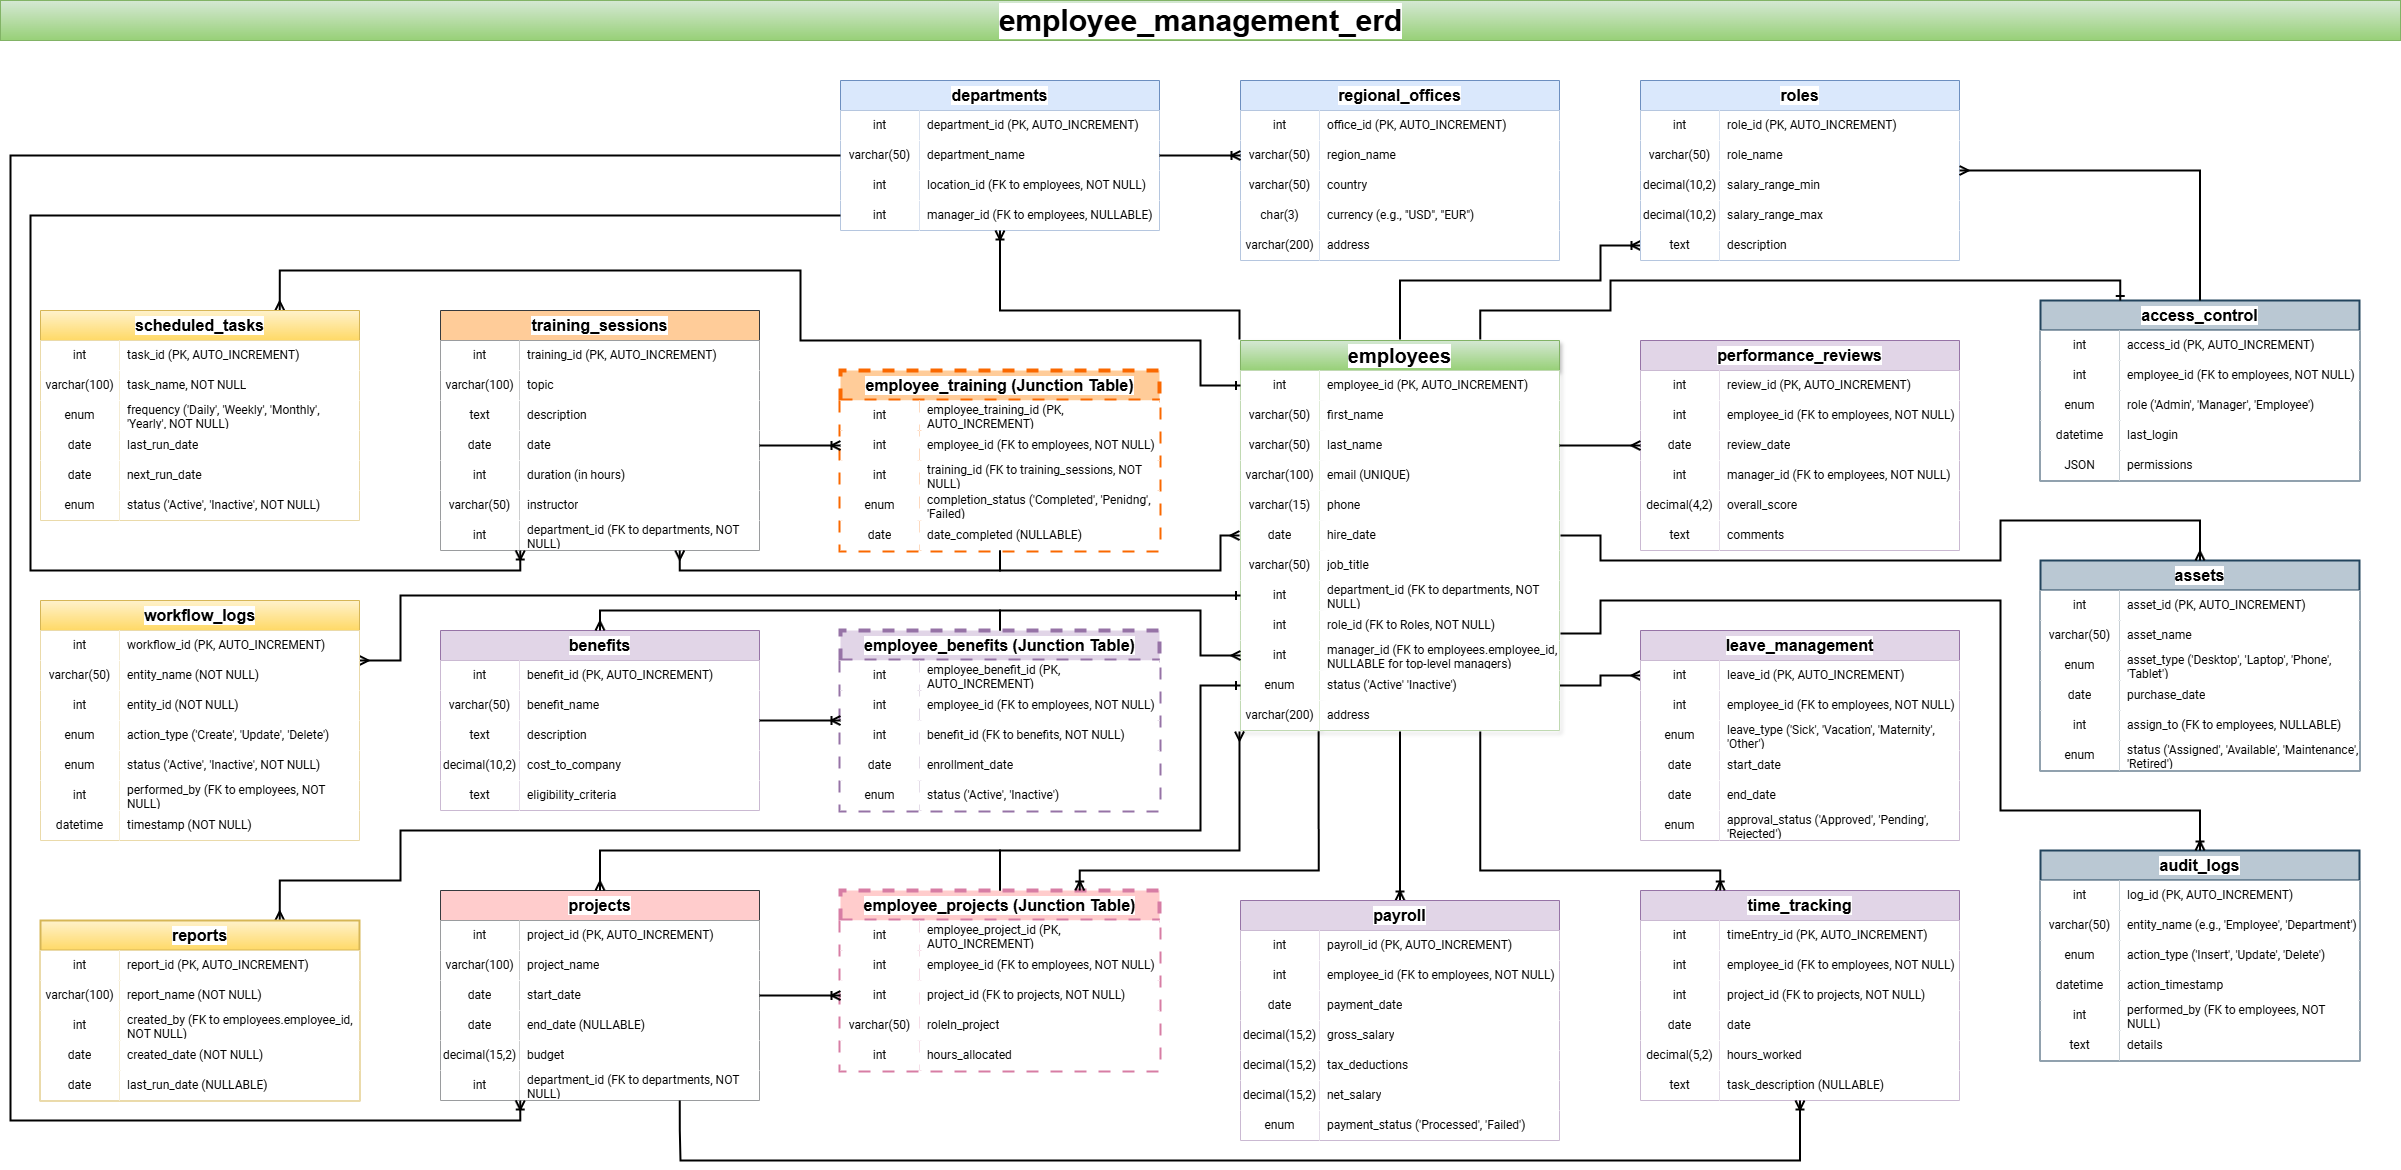
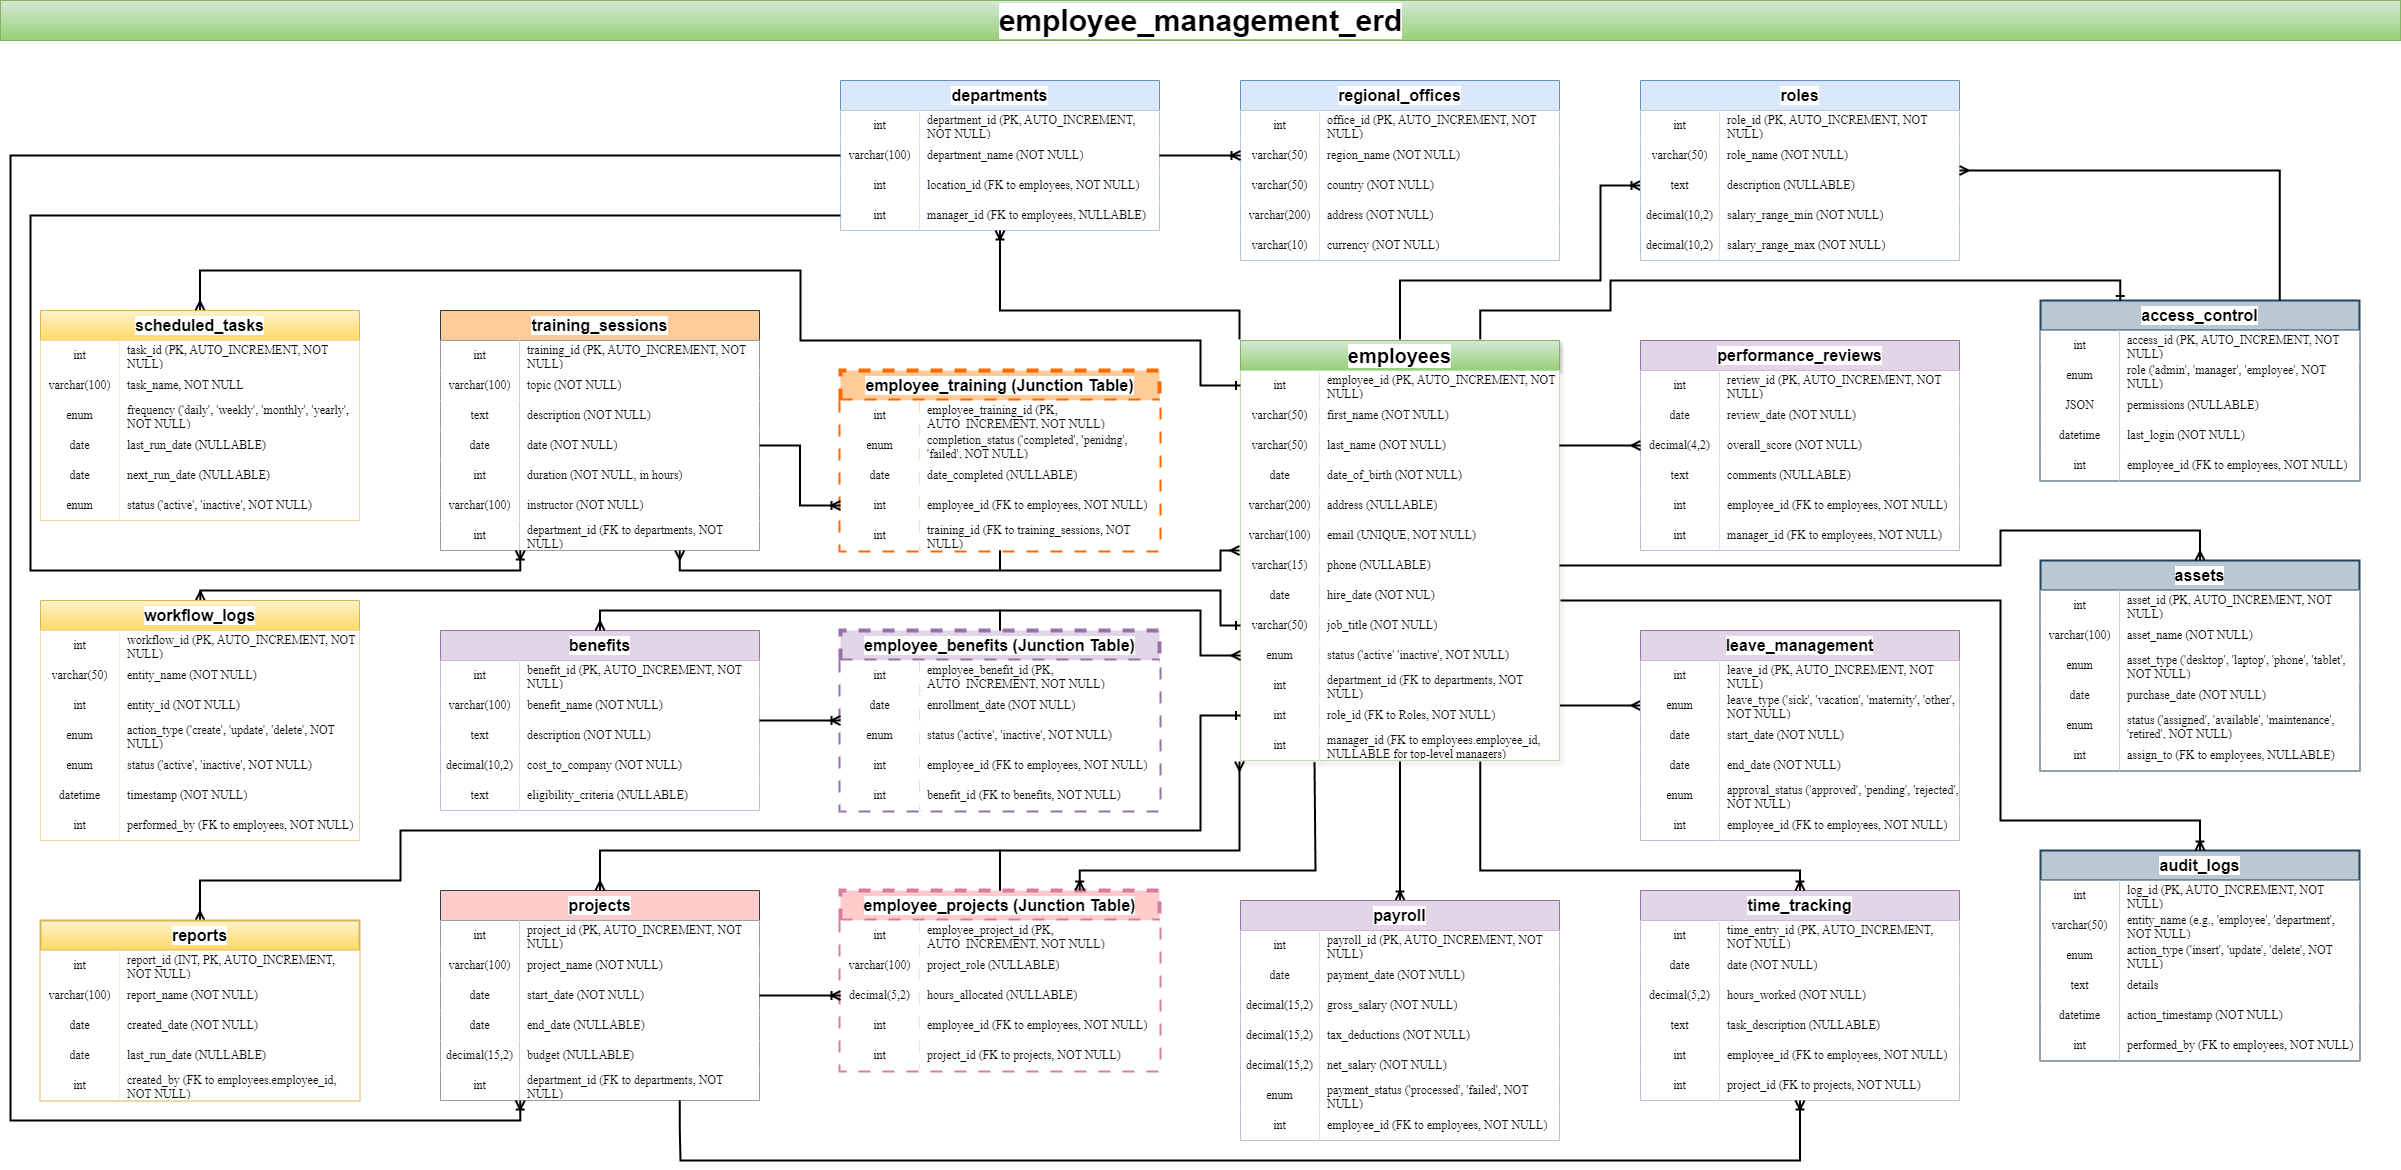
updated documentation and erd

diff --git a/assets/erd/ERD_README.md b/assets/erd/ERD_README.md
@@ -26,55 +26,56 @@ The ERD visualizes the relational structure of the database. Below is a descript
 ## **Entity Descriptions and Attributes**
 
 ### **employees**
-- **Primary Key**: `employee_id` (AUTO_INCREMENT, NOT NULL)
+- **Primary Key**: `employee_id` (INT, AUTO_INCREMENT, NOT NULL)
 - **Attributes**:
   - `first_name` (VARCHAR(50), NOT NULL)
   - `last_name` (VARCHAR(50), NOT NULL)
+  - `date_of_birth` (DATE, NOT NULL)
+  - `address` (VARCHAR(200), NULL)
   - `email` (VARCHAR(100), UNIQUE, NOT NULL)
   - `phone` (VARCHAR(15), NULL)
   - `hire_date` (DATE, NOT NULL)
   - `job_title` (VARCHAR(50), NOT NULL)
   - `status` (ENUM: `active`, `inactive`, NOT NULL)
-  - `address` (VARCHAR(255), NULL)
 - **Foreign Keys**:
-  - `department_id` (FK to `departments`, NOT NULL)
-  - `role_id` (FK to `roles`, NOT NULL)
-  - `manager_id` (Self-referencing FK to `employees`, NULL for top-level managers)
+  - `department_id` (INT, FK to `departments`, NOT NULL)
+  - `role_id` (INT, FK to `roles`, NOT NULL)
+  - `manager_id` (INT, Self-referencing FK to `employees`, NULL for top-level managers)
 
 ---
 
 ### **departments**
-- **Primary Key**: `department_id` (AUTO_INCREMENT, NOT NULL)
+- **Primary Key**: `department_id` (INT, AUTO_INCREMENT, NOT NULL)
 - **Attributes**:
   - `department_name` (VARCHAR(100), NOT NULL)
 - **Foreign Keys**:
-  - `location_id` (FK to `regional_offices`, NOT NULL)
-  - `manager_id` (FK to `employees`, NULL)
+  - `location_id` (INT, FK to `regional_offices`, NOT NULL)
+  - `manager_id` (INT, FK to `employees`, NULL)
 
 ---
 
 ### **regional_offices**
-- **Primary Key**: `office_id` (AUTO_INCREMENT, NOT NULL)
+- **Primary Key**: `office_id` (INT, AUTO_INCREMENT, NOT NULL)
 - **Attributes**:
   - `region_name` (VARCHAR(50), NOT NULL)
   - `country` (VARCHAR(50), NOT NULL)
+  - `address` (VARCHAR(200), NOT NULL)
   - `currency` (VARCHAR(10), NOT NULL)
-  - `address` (VARCHAR(255), NOT NULL)
 
 ---
 
 ### **roles**
-- **Primary Key**: `role_id` (AUTO_INCREMENT, NOT NULL)
+- **Primary Key**: `role_id` (INT, AUTO_INCREMENT, NOT NULL)
 - **Attributes**:
   - `role_name` (VARCHAR(50), NOT NULL)
+  - `description` (TEXT, NULL)
   - `salary_range_min` (DECIMAL(10, 2), NOT NULL)
   - `salary_range_max` (DECIMAL(10, 2), NOT NULL)
-  - `description` (TEXT, NULL)
 
 ---
 
 ### **training_sessions**
-- **Primary Key**: `training_id` (AUTO_INCREMENT, NOT NULL)
+- **Primary Key**: `training_id` (INT, AUTO_INCREMENT, NOT NULL)
 - **Attributes**:
   - `topic` (VARCHAR(100), NOT NULL)
   - `description` (TEXT, NULL)
@@ -82,23 +83,23 @@ The ERD visualizes the relational structure of the database. Below is a descript
   - `duration` (INT, NOT NULL, in hours)
   - `instructor` (VARCHAR(100), NULL)
 - **Foreign Key**:
-  - `department_id` (FK to `departments`, NOT NULL)
+  - `department_id` (INT, FK to `departments`, NOT NULL)
 
 ---
 
 ### **employee_training**
-- **Primary Key**: `employee_training_id` (AUTO_INCREMENT, NOT NULL)
+- **Primary Key**: `employee_training_id` (INT, AUTO_INCREMENT, NOT NULL)
 - **Attributes**:
   - `completion_status` (ENUM: `completed`, `pending`, `failed`, NOT NULL)
   - `date_completed` (DATE, NULL)
 - **Foreign Keys**:
-  - `employee_id` (FK to `employees`, NOT NULL)
-  - `training_id` (FK to `training_sessions`, NOT NULL)
+  - `employee_id` (INT, FK to `employees`, NOT NULL)
+  - `training_id` (INT, FK to `training_sessions`, NOT NULL)
 
 ---
 
 ### **benefits**
-- **Primary Key**: `benefit_id` (AUTO_INCREMENT, NOT NULL)
+- **Primary Key**: `benefit_id` (INT, AUTO_INCREMENT, NOT NULL)
 - **Attributes**:
   - `benefit_name` (VARCHAR(100), NOT NULL)
   - `description` (TEXT, NULL)
@@ -108,41 +109,41 @@ The ERD visualizes the relational structure of the database. Below is a descript
 ---
 
 ### **employee_benefits**
-- **Primary Key**: `employee_benefit_id` (AUTO_INCREMENT, NOT NULL)
+- **Primary Key**: `employee_benefit_id` (INT, AUTO_INCREMENT, NOT NULL)
 - **Attributes**:
   - `enrollment_date` (DATE, NOT NULL)
   - `status` (ENUM: `active`, `inactive`, NOT NULL)
 - **Foreign Keys**:
-  - `employee_id` (FK to `employees`, NOT NULL)
-  - `benefit_id` (FK to `benefits`, NOT NULL)
+  - `employee_id` (INT, FK to `employees`, NOT NULL)
+  - `benefit_id` (INT, FK to `benefits`, NOT NULL)
 
 ---
 
 ### **projects**
-- **Primary Key**: `project_id` (AUTO_INCREMENT, NOT NULL)
+- **Primary Key**: `project_id` (INT, AUTO_INCREMENT, NOT NULL)
 - **Attributes**:
   - `project_name` (VARCHAR(100), NOT NULL)
   - `start_date` (DATE, NOT NULL)
   - `end_date` (DATE, NULL)
   - `budget` (DECIMAL(15, 2), NULL)
 - **Foreign Key**:
-  - `department_id` (FK to `departments`, NOT NULL)
+  - `department_id` (INT, FK to `departments`, NOT NULL)
 
 ---
 
 ### **employee_projects**
-- **Primary Key**: `employee_project_id` (AUTO_INCREMENT, NOT NULL)
+- **Primary Key**: `employee_project_id` (INT, AUTO_INCREMENT, NOT NULL)
 - **Attributes**:
-  - `role_in_project` (VARCHAR(100), NULL)
+  - `project_role` (VARCHAR(100), NULL)
   - `hours_allocated` (DECIMAL(5, 2), NULL)
 - **Foreign Keys**:
-  - `employee_id` (FK to `employees`, NOT NULL)
-  - `project_id` (FK to `projects`, NOT NULL)
+  - `employee_id` (INT, FK to `employees`, NOT NULL)
+  - `project_id` (INT, FK to `projects`, NOT NULL)
 
 ---
 
 ### **payroll**
-- **Primary Key**: `payroll_id` (AUTO_INCREMENT, NOT NULL)
+- **Primary Key**: `payroll_id` (INT, AUTO_INCREMENT, NOT NULL)
 - **Attributes**:
   - `payment_date` (DATE, NOT NULL)
   - `gross_salary` (DECIMAL(10, 2), NOT NULL)
@@ -150,72 +151,60 @@ The ERD visualizes the relational structure of the database. Below is a descript
   - `net_salary` (DECIMAL(10, 2), NOT NULL)
   - `payment_status` (ENUM: `processed`, `failed`, NOT NULL)
 - **Foreign Key**:
-  - `employee_id` (FK to `employees`, NOT NULL)
+  - `employee_id` (INT, FK to `employees`, NOT NULL)
 
 ---
 
 ### **time_tracking**
-- **Primary Key**: `time_entry_id` (AUTO_INCREMENT, NOT NULL)
+- **Primary Key**: `time_entry_id` (INT, AUTO_INCREMENT, NOT NULL)
 - **Attributes**:
   - `date` (DATE, NOT NULL)
   - `hours_worked` (DECIMAL(5, 2), NOT NULL)
   - `task_description` (TEXT, NULL)
 - **Foreign Keys**:
-  - `employee_id` (FK to `employees`, NOT NULL)
-  - `project_id` (FK to `projects`, NOT NULL)
+  - `employee_id` (INT, FK to `employees`, NOT NULL)
+  - `project_id` (INT, FK to `projects`, NOT NULL)
 
 ---
 
 ### **leave_management**
-- **Primary Key**: `leave_id` (AUTO_INCREMENT, NOT NULL)
+- **Primary Key**: `leave_id` (INT, AUTO_INCREMENT, NOT NULL)
 - **Attributes**:
   - `leave_type` (ENUM: `sick`, `vacation`, `unpaid`, `other`, NOT NULL)
   - `start_date` (DATE, NOT NULL)
   - `end_date` (DATE, NOT NULL)
   - `approval_status` (ENUM: `approved`, `pending`, `rejected`, NOT NULL)
 - **Foreign Key**:
-  - `employee_id` (FK to `employees`, NOT NULL)
+  - `employee_id` (INT, FK to `employees`, NOT NULL)
 
 ---
 
 ### **performance_reviews**
-- **Primary Key**: `review_id` (AUTO_INCREMENT, NOT NULL)
+- **Primary Key**: `review_id` (INT, AUTO_INCREMENT, NOT NULL)
 - **Attributes**:
   - `review_date` (DATE, NOT NULL)
   - `overall_score` (DECIMAL(4, 2), NULL)
   - `comments` (TEXT, NULL)
 - **Foreign Keys**:
-  - `employee_id` (FK to `employees`, NOT NULL)
-  - `manager_id` (FK to `employees`, NOT NULL)
+  - `employee_id` (INT, FK to `employees`, NOT NULL)
+  - `manager_id` (INT, FK to `employees`, NOT NULL)
 
 ---
 
 ### **assets**
-- **Primary Key**: `asset_id` (AUTO_INCREMENT, NOT NULLABLE)
+- **Primary Key**: `asset_id` (INT, AUTO_INCREMENT, NOT NULL)
 - **Attributes**:
-  - `asset_name` (VARCHAR(100), NOT NULLABLE)
-  - `asset_type` (ENUM: `Desktop`, `Laptop`, `Tablet`, `Phone`, NOT NULLABLE)
-  - `purchase_date` (DATE, NOT NULLABLE)
-  - `assign_to` (FK to employees, NULLABLE)
-  - `status` (ENUM: `Assigned`, `Available`, `Maintenance`, `Retired`, NOT NULLABLE)
-
----
-
-### **workflow_logs**
-- **Primary Key**: `workflow_id` (AUTO_INCREMENT, NOT NULL)
-- **Attributes**:
-  - `entity_name` (VARCHAR(50), NOT NULL)
-  - `entity_id` (INT, NOT NULL)
-  - `action_type` (ENUM: `create`, `update`, `delete`, NOT NULL)
-  - `status` (ENUM: `active`, `inactive`, NOT NULL)
-  - `timestamp` (DATETIME, NOT NULL)
+  - `asset_name` (VARCHAR(100), NOT NULL)
+  - `asset_type` (ENUM: `Desktop`, `Laptop`, `Tablet`, `Phone`, NOT NULL)
+  - `purchase_date` (DATE, NOT NULL)
+  - `status` (ENUM: `Assigned`, `Available`, `Maintenance`, `Retired`, NOT NULL)
 - **Foreign Key**:
-  - `performed_by` (FK to `employees`, NOT NULL)
+  - `assign_to` (INT, FK to employees, NULLABLE)
 
 ---
 
 ### **scheduled_tasks**
-- **Primary Key**: `task_id` (AUTO_INCREMENT, NOT NULL)
+- **Primary Key**: `task_id` (INT, AUTO_INCREMENT, NOT NULL)
 - **Attributes**:
   - `task_name` (VARCHAR(100), NOT NULL)
   - `frequency` (ENUM: `daily`, `weekly`, `monthly`, `yearly`, NOT NULL)
@@ -225,34 +214,50 @@ The ERD visualizes the relational structure of the database. Below is a descript
 
 ---
 
+### **workflow_logs**
+- **Primary Key**: `workflow_id` (INT, AUTO_INCREMENT, NOT NULL)
+- **Attributes**:
+  - `entity_name` (VARCHAR(50), NOT NULL)
+  - `entity_id` (INT, NOT NULL)
+  - `action_type` (ENUM: `create`, `update`, `delete`, NOT NULL)
+  - `status` (ENUM: `active`, `inactive`, NOT NULL)
+  - `timestamp` (DATETIME, NOT NULL)
+- **Foreign Key**:
+  - `performed_by` (INT, FK to `employees`, NOT NULL)
+
+---
+
 ### **reports**
-- **Primary Key**: `report_id` (AUTO_INCREMENT, NOT NULL)
+- **Primary Key**: `report_id` (INT, AUTO_INCREMENT, NOT NULL)
 - **Attributes**:
   - `report_name` (VARCHAR(100), NOT NULL)
-  - `created_by` (FK to `employees`, NOT NULL)
   - `created_date` (DATE, NOT NULL)
   - `last_run_date` (DATE, NULL)
+- **Foreign Key**:
+  - `created_by` (INT, FK to `employees`, NOT NULL)
 
 ---
 
 ### **access_control**
-- **Primary Key**: `access_id` (AUTO_INCREMENT, NOT NULL)
+- **Primary Key**: `access_id` (INT, AUTO_INCREMENT, NOT NULL)
 - **Attributes**:
-  - `employee_id` (FK to `employees`, NOT NULL)
   - `role` (ENUM: `admin`, `manager`, `employee`, NOT NULL)
-  - `last_login` (DATETIME, NULL)
   - `permissions` (JSON, NULL)
+  - `last_login` (DATETIME, NULL)
+- **Foreign Key**:
+  - `employee_id` (INT, FK to `employees`, NOT NULL)
 
 ---
 
 ### **audit_logs**
-- **Primary Key**: `log_id` (AUTO_INCREMENT, NOT NULL)
+- **Primary Key**: `log_id` (INT, AUTO_INCREMENT, NOT NULL)
 - **Attributes**:
   - `entity_name` (VARCHAR(50), NOT NULL)
   - `action_type` (ENUM: `insert`, `update`, `delete`, NOT NULL)
-  - `action_timestamp` (DATETIME, NOT NULL)
-  - `performed_by` (FK to `employees`, NOT NULL)
   - `details` (TEXT, NULL)
+  - `action_timestamp` (DATETIME, NOT NULL)
+- **Foreign Key**:
+  - `performed_by` (INT, FK to `employees`, NOT NULL)
 
 ---
 
